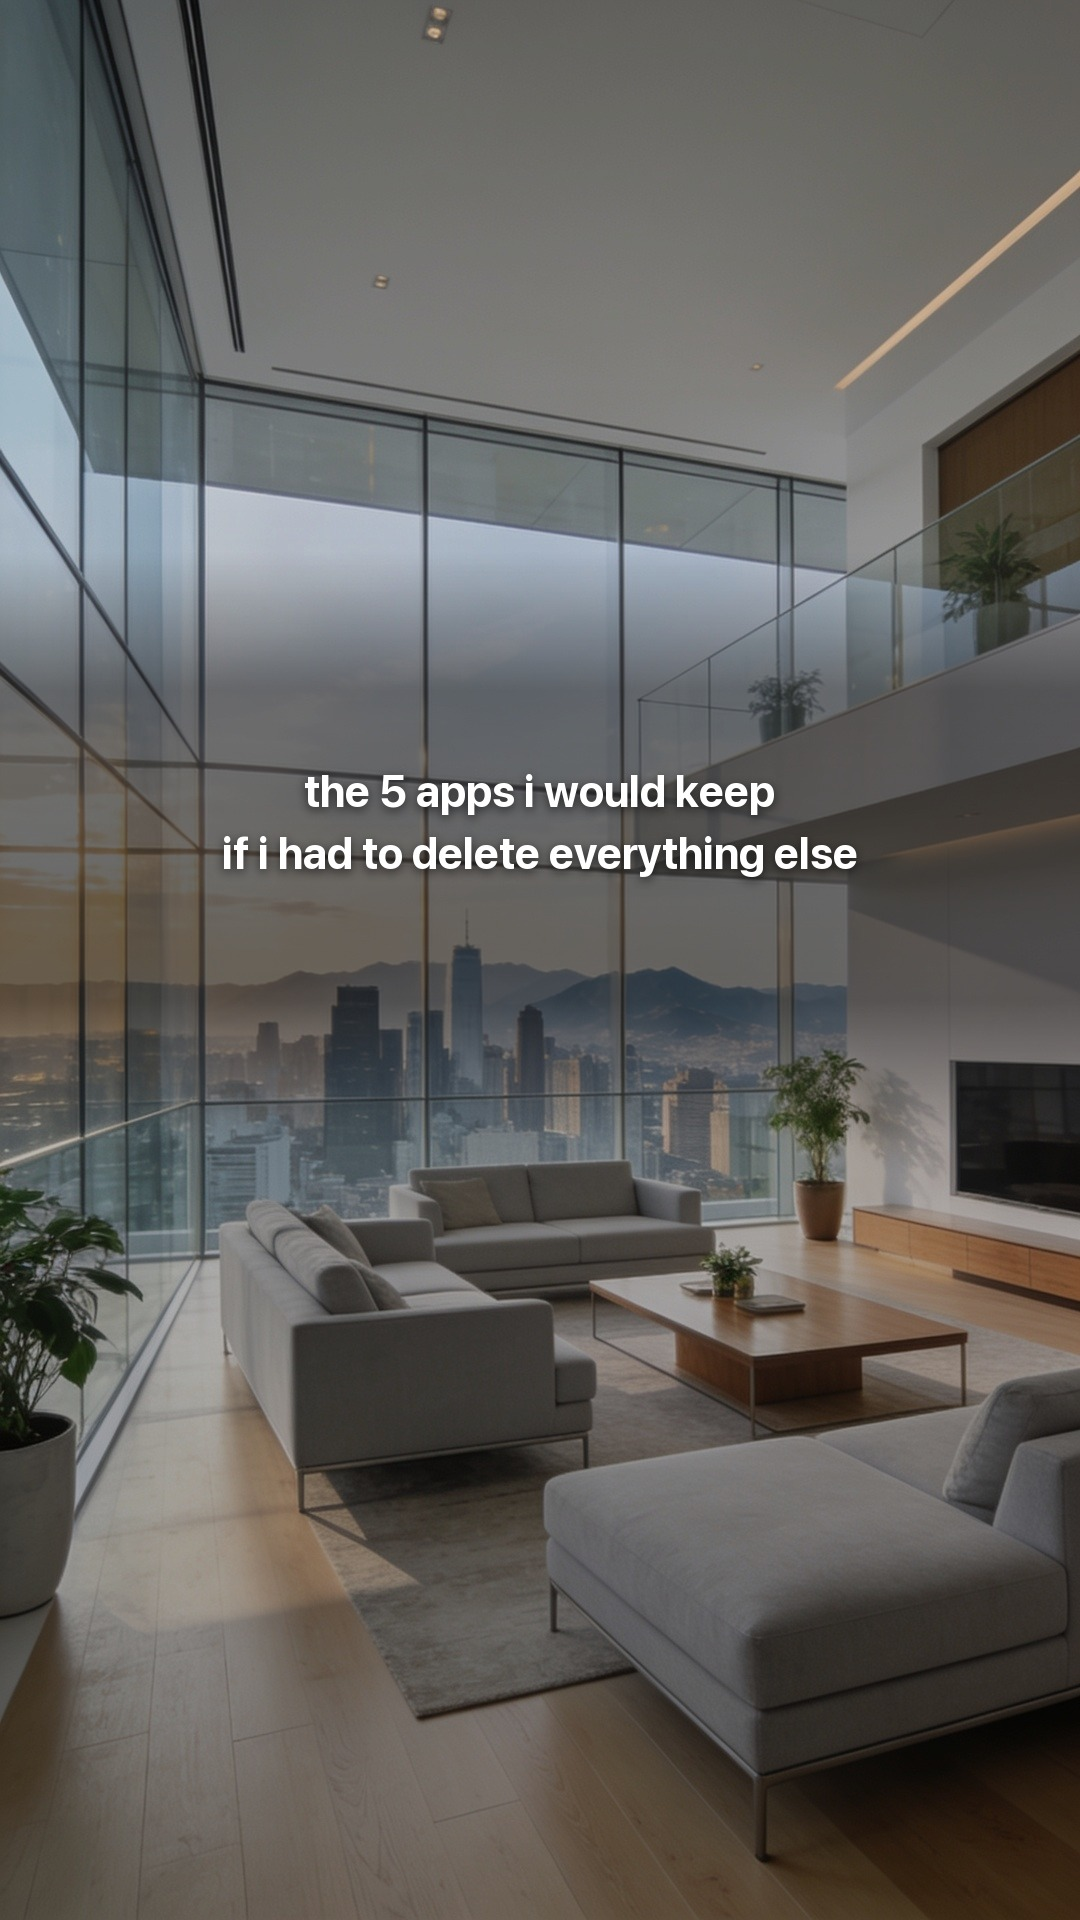
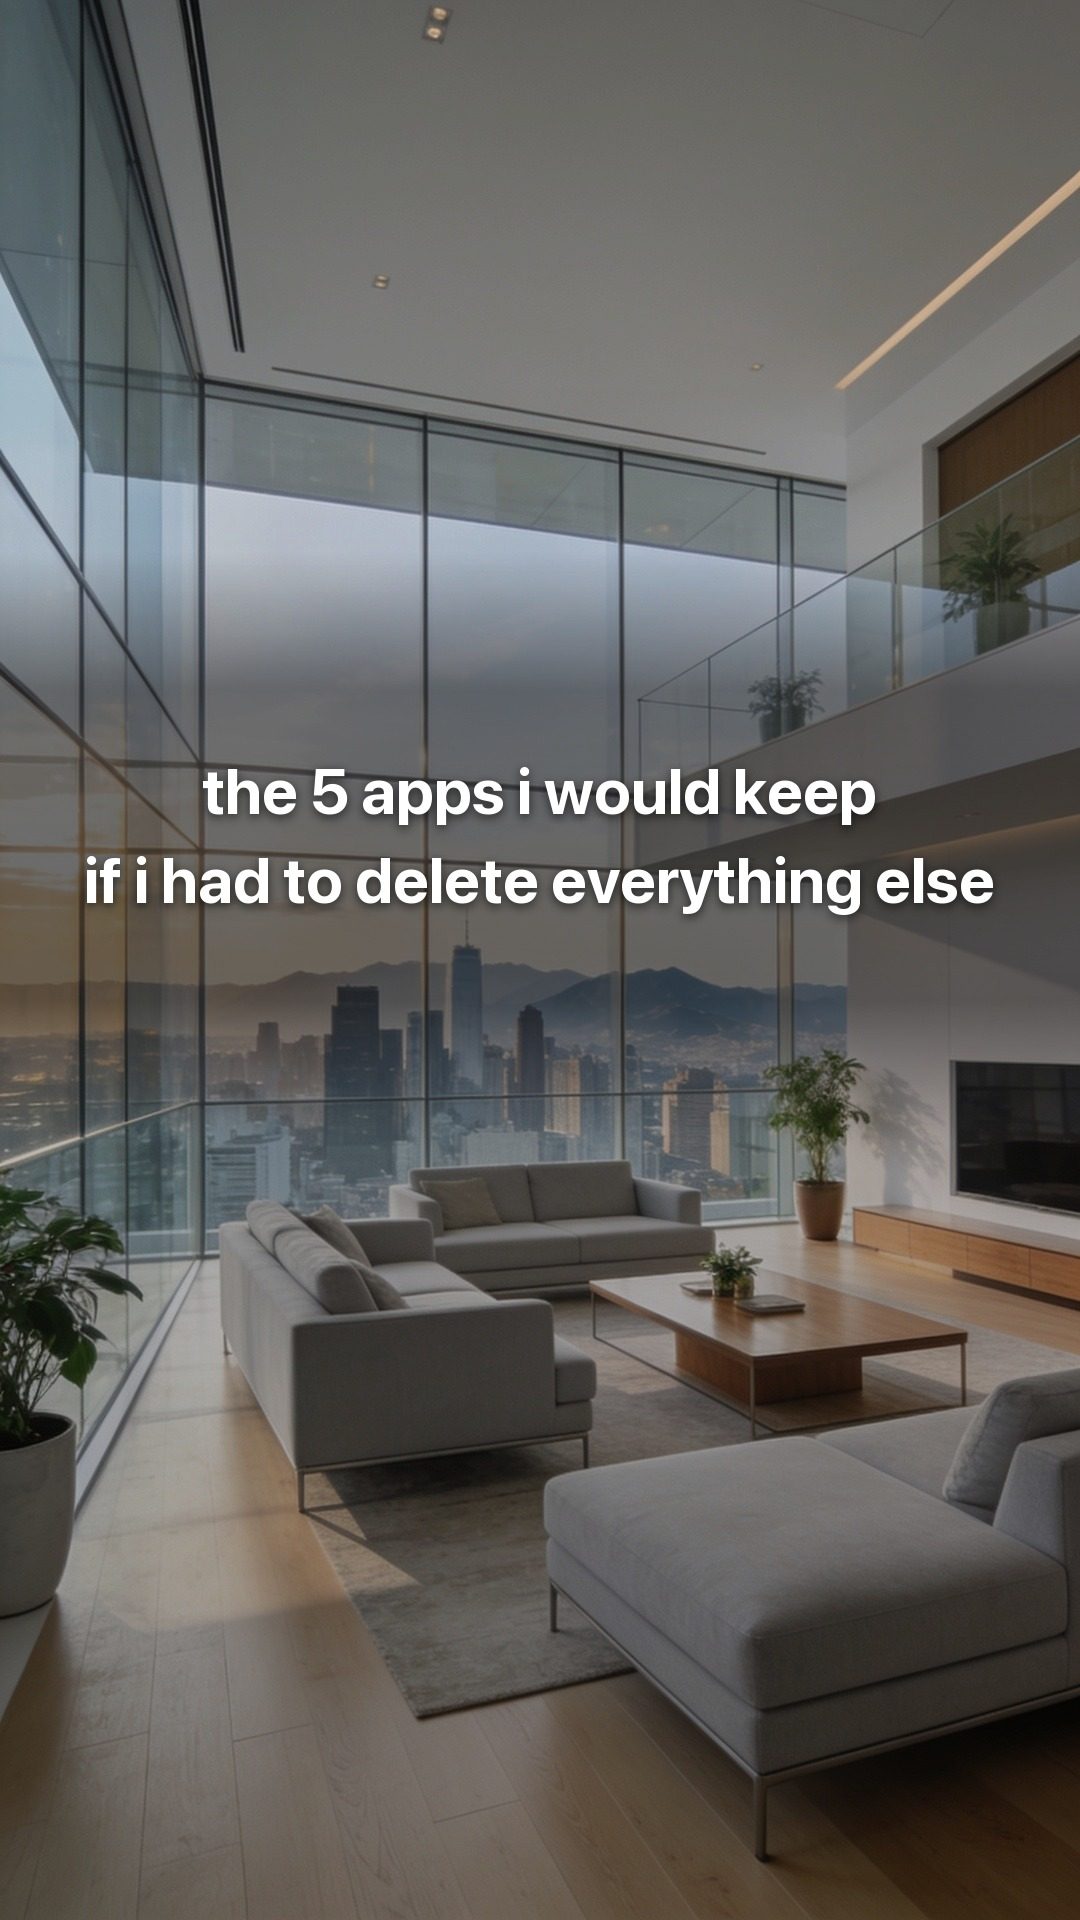
fix hook sizing: fit the widest rendered line, not the joined lines
hook_slide measured ' '.join(lines) but draws the lines separately, so it
sized for a string that never appears on the slide. A two line hook was
shrunk to the 44px floor while its longest line only needed 64px, which
is why keep-five's hook came out visibly smaller than the reference.

Now fits the widest rendered line to 930px, ceiling 84. Above 84 a two
line block clears the top of the 690-1000 scrim band and the first line
loses its backing. keep-five's hook goes 44px -> 64px, 919px wide, which
matches the reference proportion.

Claude-Session: https://claude.ai/code/session_018WcmYQJRQqBfrRpJzu76Jc

Changed region(s): [[0.0611, 0.4062, 0.9167, 0.5]]

diff --git a/tools/compose.py b/tools/compose.py
@@ -364,7 +364,14 @@ def hook_slide(bg, lines, out, grad=(0.85, 0.72, 300, 1300), style=None,
     im = base_photo(bg, grad)
     im = frame_for_band(im, 690, 1000)
     adaptive_scrim(im, 690, 1000, target=88, strength_cap=0.62)
-    f = _fit(' '.join(lines), 'Bold', 64, max_width=900, floor=44,
+    # Fit the WIDEST RENDERED LINE, not the two lines joined. Joining them
+    # measures a string that never appears on the slide, so a two line hook
+    # shrank to the floor and came out visibly smaller than the reference.
+    # 84 is the ceiling: above it a two line block clears the top of the
+    # 690-1000 scrim band and the first line loses its backing.
+    widest = max(lines, key=lambda l: ImageDraw.Draw(Image.new('RGB', (1, 1)))
+                 .textlength(l, font=font(64, 'Bold')))
+    f = _fit(widest, 'Bold', 84, max_width=930, floor=44,
              maker=lambda sz: font(sz, 'Bold'))
     # one size for both lines, generous line gap, sitting mid-frame
     draw_text_block(im, [
